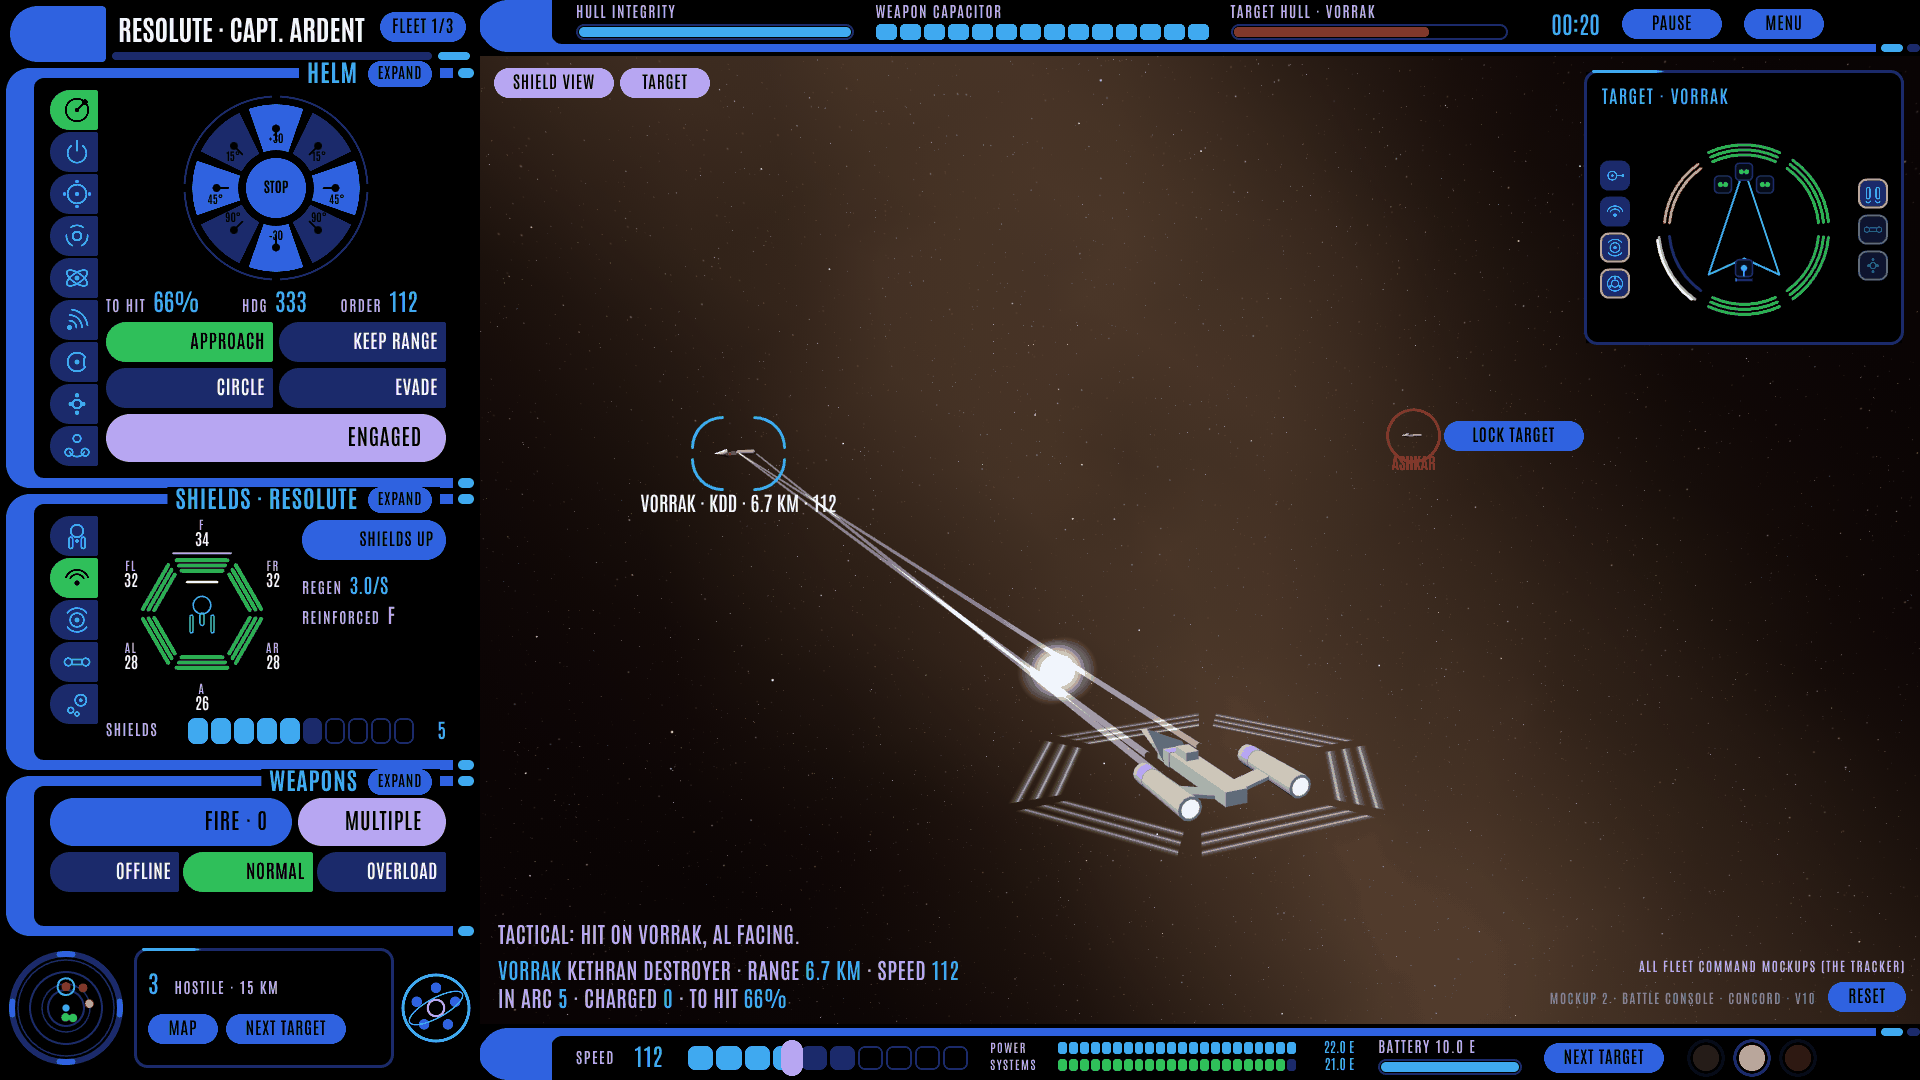
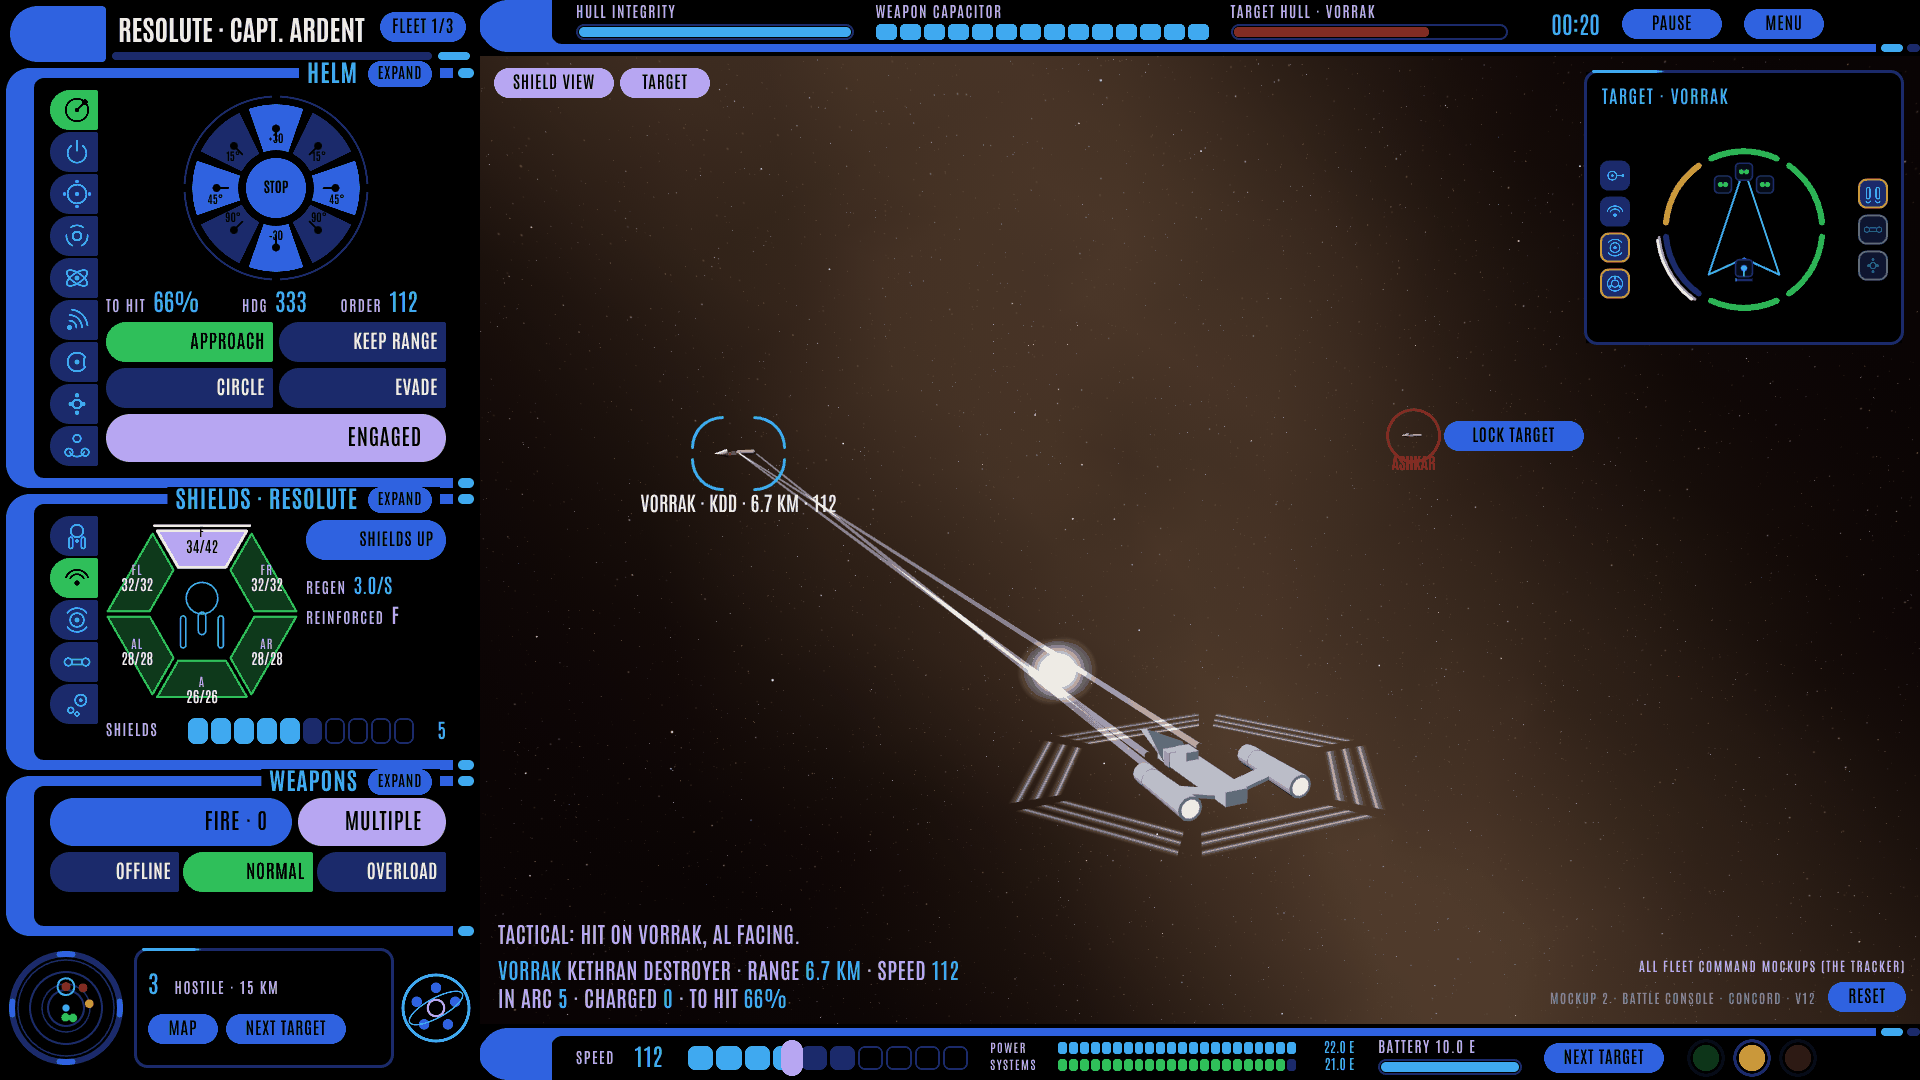
Battle console v12: shield facings as big trapezoid keys
Owner: "make shields like bigger buttons like in starfleet command where they
were like trapezoids, with the base pointing outwards, and the sections getting
highlighted when selected for reinforcement". A hexagonal ring of six trapezoid
keys round the ship, tinted by strength with name and strength inside, the
reinforced key lit Lilac; controls may now give an exact outline for hits.

Claude-Session: https://claude.ai/code/session_01RGPQuqAYNNJKpzbbbZ3BfB

diff --git a/docs/mockups/battle-console.html b/docs/mockups/battle-console.html
@@ -927,7 +927,9 @@ function rich(x, y, segs, font, max = 0) {
 // ---- Input, immediate mode ----------------------------------------------------------------------------------------
 let HITS = [], PREV = [], HOT = null, ACTIVE = null, DRAG = null, PX = -1, PY = -1;
 function hit(id, x, y, w, h, o = {}) { HITS.push({ id, x, y, w, h, ...o }); return { hot: HOT === id, down: ACTIVE === id && HOT === id }; }
-function topAt(px, py) { for (let i = PREV.length - 1; i >= 0; i--) { const h = PREV[i]; if (px >= h.x && px <= h.x + h.w && py >= h.y && py <= h.y + h.h) return h; } return null; }
+// A control may give its exact outline (poly, a list of points) when its rectangle would overlap its neighbours'.
+function inPoly(px, py, poly) { let c = false; for (let i = 0, j = poly.length - 1; i < poly.length; j = i++) { const [xi, yi] = poly[i], [xj, yj] = poly[j]; if ((yi > py) !== (yj > py) && px < (xj - xi) * (py - yi) / (yj - yi) + xi) c = !c; } return c; }
+function topAt(px, py) { for (let i = PREV.length - 1; i >= 0; i--) { const h = PREV[i]; if (px >= h.x && px <= h.x + h.w && py >= h.y && py <= h.y + h.h && (!h.poly || inPoly(px, py, h.poly))) return h; } return null; }
 const refXY = (e) => [e.clientX / S, e.clientY / S];
 const inView = (px, py) => px >= VIEW[0] && px < VIEW[0] + VIEW[2] && py >= VIEW[1] && py < VIEW[1] + VIEW[3];
 function wireInput() {
@@ -1468,25 +1470,34 @@ function shSSD(b, big) {
 // adjust how much energy I want to allocate - same energy slider as the one found in the power menu"): a hexagon of the
 // six facings round the ship, each drawn as its layers (shieldLayers, the one rule), its strength beside it; a click on
 // a side reinforces it (again to clear); the shields' energy boxes are the power station's own row (powerRow).
+// The six facings as big trapezoid keys round the ship, the wide side outward (owner, 2026-11-01: "make shields like
+// bigger buttons like in starfleet command where they were like trapezoids, with the base pointing outwards, and the
+// sections getting highlighted when selected for reinforcement"). A key is tinted by its facing's strength, with its
+// name and strength inside; the reinforced key is lit; pointing at one lightens it; the side toward the target is
+// marked white on its outer edge.
 function shieldHex(cx, cy, R, s, big, idp) {
-  const k = big ? 1.6 : 1, band = 4 * k, step = 6 * k, gap = 0.08, toward = tgt(s) ? facingFrom(s, tgt(s).x, tgt(s).z) : -1;
-  const vert = (a, r) => [cx + Math.cos(a) * r, cy + Math.sin(a) * r];
+  const k = big ? 1.6 : 1, Ri = R * 0.56, gap = 3 * k, toward = tgt(s) ? facingFrom(s, tgt(s).x, tgt(s).z) : -1;
+  const at = (a, r) => [cx + Math.cos(a) * r, cy + Math.sin(a) * r];
   for (let i = 0; i < 6; i++) {
-    const am = -P / 2 + i * P / 3, a0 = am - P / 6 + gap, a1 = am + P / 6 - gap, nl = shieldLayers(s, i), col = nl ? shieldCol(s, i) : CC.deep;
-    const [mx, my] = vert(am, R * 0.93), hw = R * 0.62, st = hit(`${idp}.${i}`, mx - hw / 2, my - hw / 2, hw, hw, { click: () => A.reinforce(i), tip: `${FACINGS[i]}: reinforce` });
-    const seg = (r) => { const s0 = Math.cos(P / 6) / Math.cos(P / 6 - gap); const [x0, y0] = vert(a0, r * s0), [x1, y1] = vert(a1, r * s0); g.beginPath(); g.moveTo(x0, y0); g.lineTo(x1, y1); g.stroke(); };
-    g.lineCap = 'round'; g.strokeStyle = col; g.lineWidth = band; g.globalAlpha = 0.9 + s.flash[i] * 0.1;
-    g.lineWidth = band * 2; seg(R + step); // one band on the console; the 3D view shows the layers
-    g.globalAlpha = 1;
-    if (st.hot) { g.strokeStyle = CC.sky; g.globalAlpha = 0.35; g.lineWidth = band * 4; seg(R + step); g.globalAlpha = 1; }
-    if (s.reinforce === i) { g.strokeStyle = CC.lilac; g.lineWidth = 2 * k; seg(R + 3 * step + 2 * k); }
-    if (i === toward) { g.strokeStyle = '#fff'; g.lineWidth = 2.5 * k; seg(R - 2.2 * step); }
-    const [lx, ly] = vert(am, R + 3 * step + 14 * k);
-    LBL(FACINGS[i], lx, ly - 2 * k, 0, s.reinforce === i ? CC.lilac : CC.lilac, 'center', 12 * k);
-    NUM(`${Math.round(s.shields[i])}/${shieldMax(s, i)}`, lx, ly + 14 * k, 0, nl ? col : CC.lilac, 'center', 16 * k); // colour-coded (owner: "Color coding and numbers still help")
+    const am = -P / 2 + i * P / 3, a0 = am - P / 6, a1 = am + P / 6, nx = Math.cos(am), ny = Math.sin(am);
+    // corners of the hexagonal ring's section, pulled in from its neighbours by the gap along each side
+    const side = (a, r) => { const [x, y] = at(a, r), tx = -Math.sin(am), ty = Math.cos(am), s2 = a === a0 ? 1 : -1; return [x + tx * gap * s2, y + ty * gap * s2]; };
+    const poly = [side(a0, Ri), side(a1, Ri), side(a1, R), side(a0, R)];
+    const xs = poly.map((q) => q[0]), ys = poly.map((q) => q[1]), bx = Math.min(...xs), by = Math.min(...ys);
+    const st = hit(`${idp}.${i}`, bx, by, Math.max(...xs) - bx, Math.max(...ys) - by, { poly, click: () => A.reinforce(i), tip: s.reinforce === i ? `${FACINGS[i]}: reinforced` : `${FACINGS[i]}: reinforce` });
+    const on = s.reinforce === i, col = shieldLayers(s, i) ? shieldCol(s, i) : CC.deep;
+    const path = () => { g.beginPath(); poly.forEach(([x, y], n) => (n ? g.lineTo(x, y) : g.moveTo(x, y))); g.closePath(); };
+    g.lineJoin = 'round';
+    path(); g.fillStyle = on ? CC.lilac : col; g.globalAlpha = on ? 1 : st.hot ? 0.55 : 0.3; g.fill(); g.globalAlpha = 1;
+    path(); g.strokeStyle = on ? '#fff' : col; g.lineWidth = (on ? 2.5 : 2) * k; g.stroke();
+    if (s.flash[i] > 0) { path(); g.fillStyle = '#fff'; g.globalAlpha = s.flash[i] * 0.5; g.fill(); g.globalAlpha = 1; }
+    if (i === toward) { const [x0, y0] = side(a0, R + 6 * k), [x1, y1] = side(a1, R + 6 * k); g.strokeStyle = '#fff'; g.lineWidth = 2.5 * k; g.lineCap = 'round'; g.beginPath(); g.moveTo(x0, y0); g.lineTo(x1, y1); g.stroke(); }
+    const mr = (R + Ri) / 2, lx = cx + nx * mr, ly = cy + ny * mr;
+    text(FACINGS[i], lx, ly - 2 * k, `600 ${12 * k}px Antonio`, on ? '#000' : CC.lilac, 'center', 0, '1.2px');
+    text(`${Math.round(s.shields[i])}/${shieldMax(s, i)}`, lx, ly + 14 * k, `600 ${15 * k}px Antonio`, on ? '#000' : CC.text, 'center');
   }
   // the ship, small, in the middle
-  g.save(); g.translate(cx, cy); g.strokeStyle = CC.sky; g.lineWidth = 1.6 * k; const L = R * 0.42;
+  g.save(); g.translate(cx, cy); g.strokeStyle = CC.sky; g.lineWidth = 1.6 * k; const L = Ri * 0.7;
   g.beginPath(); g.arc(0, -L * 0.42, L * 0.42, 0, 2 * P); g.stroke(); g.beginPath(); g.roundRect(-L * 0.1, -L * 0.05, L * 0.2, L * 0.6, L * 0.1); g.stroke();
   for (const sd of [-1, 1]) { g.beginPath(); g.roundRect(sd * L * 0.5 - L * 0.07, L * 0.05, L * 0.14, L * 0.85, L * 0.07); g.stroke(); }
   g.restore();
@@ -1499,9 +1510,9 @@ function powerRow(idp, x, y, w, h, key, lw = 82) {
   NUM(String(s.power[key]), x + w, y + h / 2 + 8, 0, CC.sky, 'right', 20);
 }
 function shShields(b, big) {
-  const s = W.player, R = big ? Math.min(b.h * 0.28, 180) : 50, hx = b.x + (big ? R * 1.9 : 96), hy = b.y + (big ? b.h * 0.42 : 98);
+  const s = W.player, R = big ? Math.min(b.h * 0.4, 300) : 96, hx = b.x + (big ? R * 1.15 : 96), hy = b.y + (big ? b.h * 0.45 : 98);
   shieldHex(hx, hy, R, s, big, 'shx');
-  const rx = big ? hx + R * 2.2 : b.x + 196, rw = b.x + b.w - rx;
+  const rx = big ? hx + R * 1.25 : b.x + 200, rw = b.x + b.w - rx;
   button('sh.up', rx, b.y + 4, rw, 40, s.shUp ? 'Shields up' : 'Shields down', A.shields, { sel: () => !s.shUp });
   pairs('sh.rg', rx, b.y + 78, [['Regen', `${(s.power.shields * 0.6 * s.brown).toFixed(1)}/S`]], rw, 20);
   pairs('sh.rf', rx, b.y + 108, [['Reinforced', s.reinforce >= 0 ? FACINGS[s.reinforce] : 'None', s.reinforce >= 0 ? CC.lilac : CC.sky]], rw, 20);
@@ -1766,7 +1777,7 @@ function uiView() {
     const tg = inBox(bx + 14, by + 44, ir[2] - 28, ir[3] - 52, (c, w, h) => drawSSD(c, w, h, t, false, false)); ssdHits('tgt', bx + 14, by + 44, tg, t, false);
   }
   if (lock) button('v.lock', lock[0], lock[1], 140, 30, 'Lock target', () => A.lock(lock[2]), { center: true });
-  LBL('Mockup 2 · Battle console · Concord · v11', vx + vw - 104, vy + vh - 20, 0, '#6f7fb4', 'right', 13);
+  LBL('Mockup 2 · Battle console · Concord · v12', vx + vw - 104, vy + vh - 20, 0, '#6f7fb4', 'right', 13);
   button('v.reset', vx + vw - 92, vy + vh - 42, 78, 30, 'Reset', A.reset, { center: true });
 }
 // The in-game menu, and the battle's end: a sheet over everything that takes all input while it is up.

diff --git a/docs/mockups/tracker.html b/docs/mockups/tracker.html
@@ -111,7 +111,7 @@ const MOCKUPS = [
     url: 'https://claude.ai/artifact/UBbAouwAU3JvcbGf6MhzLt', published: '2026-10-30', version: 5,
     summary: 'Main menu, skirmish (scenario, point budget, fleet and loadout), the campaign hex map with standees, port panels and missions, deploy, a stand-in battle, results, and back to the map.' },
   { id: 'M2', title: 'In-game UI', change: 'battle-console', page: 'docs/mockups/battle-console.html',
-    url: 'https://claude.ai/artifact/9yertq3bYQRmFiDE7N9eBs', published: '2026-11-01', version: 11,
+    url: 'https://claude.ai/artifact/9yertq3bYQRmFiDE7N9eBs', published: '2026-11-01', version: 12,
     summary: 'The battle console in the Concord skin around a live stand-in battle, desktop first: nine stations and five ship pages on narrow columns of icon tabs named on hover, the ship systems display, weapons, radar and tactical map, a speed handle, Power over Systems with the battery, and the power station\'s Reactor mode: a diagram of the core, coils and coolant loops worked by hand, with a meltdown to avoid. Every panel works and expands.' },
   { id: 'M3', title: 'Look dev', change: 'look-dev', page: 'docs/mockups/look-dev.html',
     url: '', published: '', version: 0,

diff --git a/mockup-work.md b/mockup-work.md
@@ -22,7 +22,7 @@ account and every link here is updated.
 | # | Mockup | Stage | OpenSpec change | Page | Link |
 |---|---|---|---|---|---|
 | 1 | Primary game flow | Drafted (2026-10-30, v5) | `game-flow` | `docs/mockups/game-flow.html` | https://claude.ai/artifact/UBbAouwAU3JvcbGf6MhzLt |
-| 2 | In-game UI | Drafted (2026-11-01, v11) | `battle-console` | `docs/mockups/battle-console.html` | https://claude.ai/artifact/9yertq3bYQRmFiDE7N9eBs |
+| 2 | In-game UI | Drafted (2026-11-01, v12) | `battle-console` | `docs/mockups/battle-console.html` | https://claude.ai/artifact/9yertq3bYQRmFiDE7N9eBs |
 | 3 | Look dev | Listed | `look-dev` (to write) | `docs/mockups/look-dev.html` | |
 | 4 | Console skins | Drafted (2026-10-31, v25) | `console-skins` | `docs/mockups/console-skins.html` | https://claude.ai/artifact/UTpgsPvZJrLfkEUmJN7CVb |
 
@@ -147,7 +147,7 @@ five statuses defined ("all of the status description is for your spec ... we ar
 the white arc over the facing toward the enemy, square weapon boxes with glyphs, "shield facing should be hexagons here"
 (3D), "going from red 1 layer -> yellow 2 layers -> green 3 layers", "make sure weapon icons dont overlap!". Version 9. Then: "this should be a shield diagram that I can
 pick what sides to reinforce" and "adjust how much energy I want to allocate - same energy slider as the one found in the
-power menu". Version 10: the shield page is a hexagon diagram, click a side to reinforce, the power station's shield row. Then: "Color coding and numbers still help" (each facing's number coloured), and "to avoid clutter. The UI itself should display 1 layer. Where the game should display multiple": version 11, one band per facing on the console, layers only in 3D.
+power menu". Version 10: the shield page is a hexagon diagram, click a side to reinforce, the power station's shield row. Then: "Color coding and numbers still help" (each facing's number coloured), and "to avoid clutter. The UI itself should display 1 layer. Where the game should display multiple": version 11, one band per facing on the console, layers only in 3D. Then: "make shields like bigger buttons like in starfleet command where they were like trapezoids, with the base pointing outwards, and the sections getting highlighted when selected for reinforcement": version 12.
 
 ## 3. Look dev
 

diff --git a/openspec/changes/battle-console/design.md b/openspec/changes/battle-console/design.md
@@ -133,6 +133,13 @@ it (again to clear), the reinforced side outlined in Lilac, the side toward the 
 the regeneration and the reinforced side beside it; and under it the shields' row of energy boxes, the same control the
 power station draws (`powerRow`, one implementation).
 
+**Shield keys** (owner, 2026-11-01: "make shields like bigger buttons like in starfleet command where they were like
+trapezoids, with the base pointing outwards, and the sections getting highlighted when selected for reinforcement"):
+on the shield page the six facings are big trapezoid keys making a hexagonal ring round the ship, the wide side outward,
+each tinted by its strength with its name and strength inside; the reinforced key is lit Lilac with a white edge,
+pointing at a key lightens it, and the side toward the target is marked white on its outer edge. A key is hit by its
+exact outline (a control may give its polygon), so neighbouring keys never steal each other's clicks.
+
 **The five statuses** (owner's definitions; they drive the combat change's rules, which are not built here):
 
 | Status | Means | Colour |

diff --git a/docs/artifacts/battle-console/README.md b/docs/artifacts/battle-console/README.md
@@ -29,3 +29,4 @@
 - Version 9 published 2026-11-01, version id `1793557329-7d68`: white arc over the facing toward the enemy, square weapon boxes that never overlap, shield strength as 1-3 layers, the 3D shields a flat hexagon.
 - Version 10 published 2026-11-01, version id `1793558522-5cfa`: the shield page as a hexagon diagram (click a side to reinforce, colour-coded strengths) with the power station's shield row.
 - Version 11 published 2026-11-01, version id `1793558594-e747`: one band per shield facing on the console, layers only in the 3D view.
+- Version 12 published 2026-11-01, version id `1793560162-8b98`: the shield page's facings as big trapezoid keys, the reinforced one lit.
